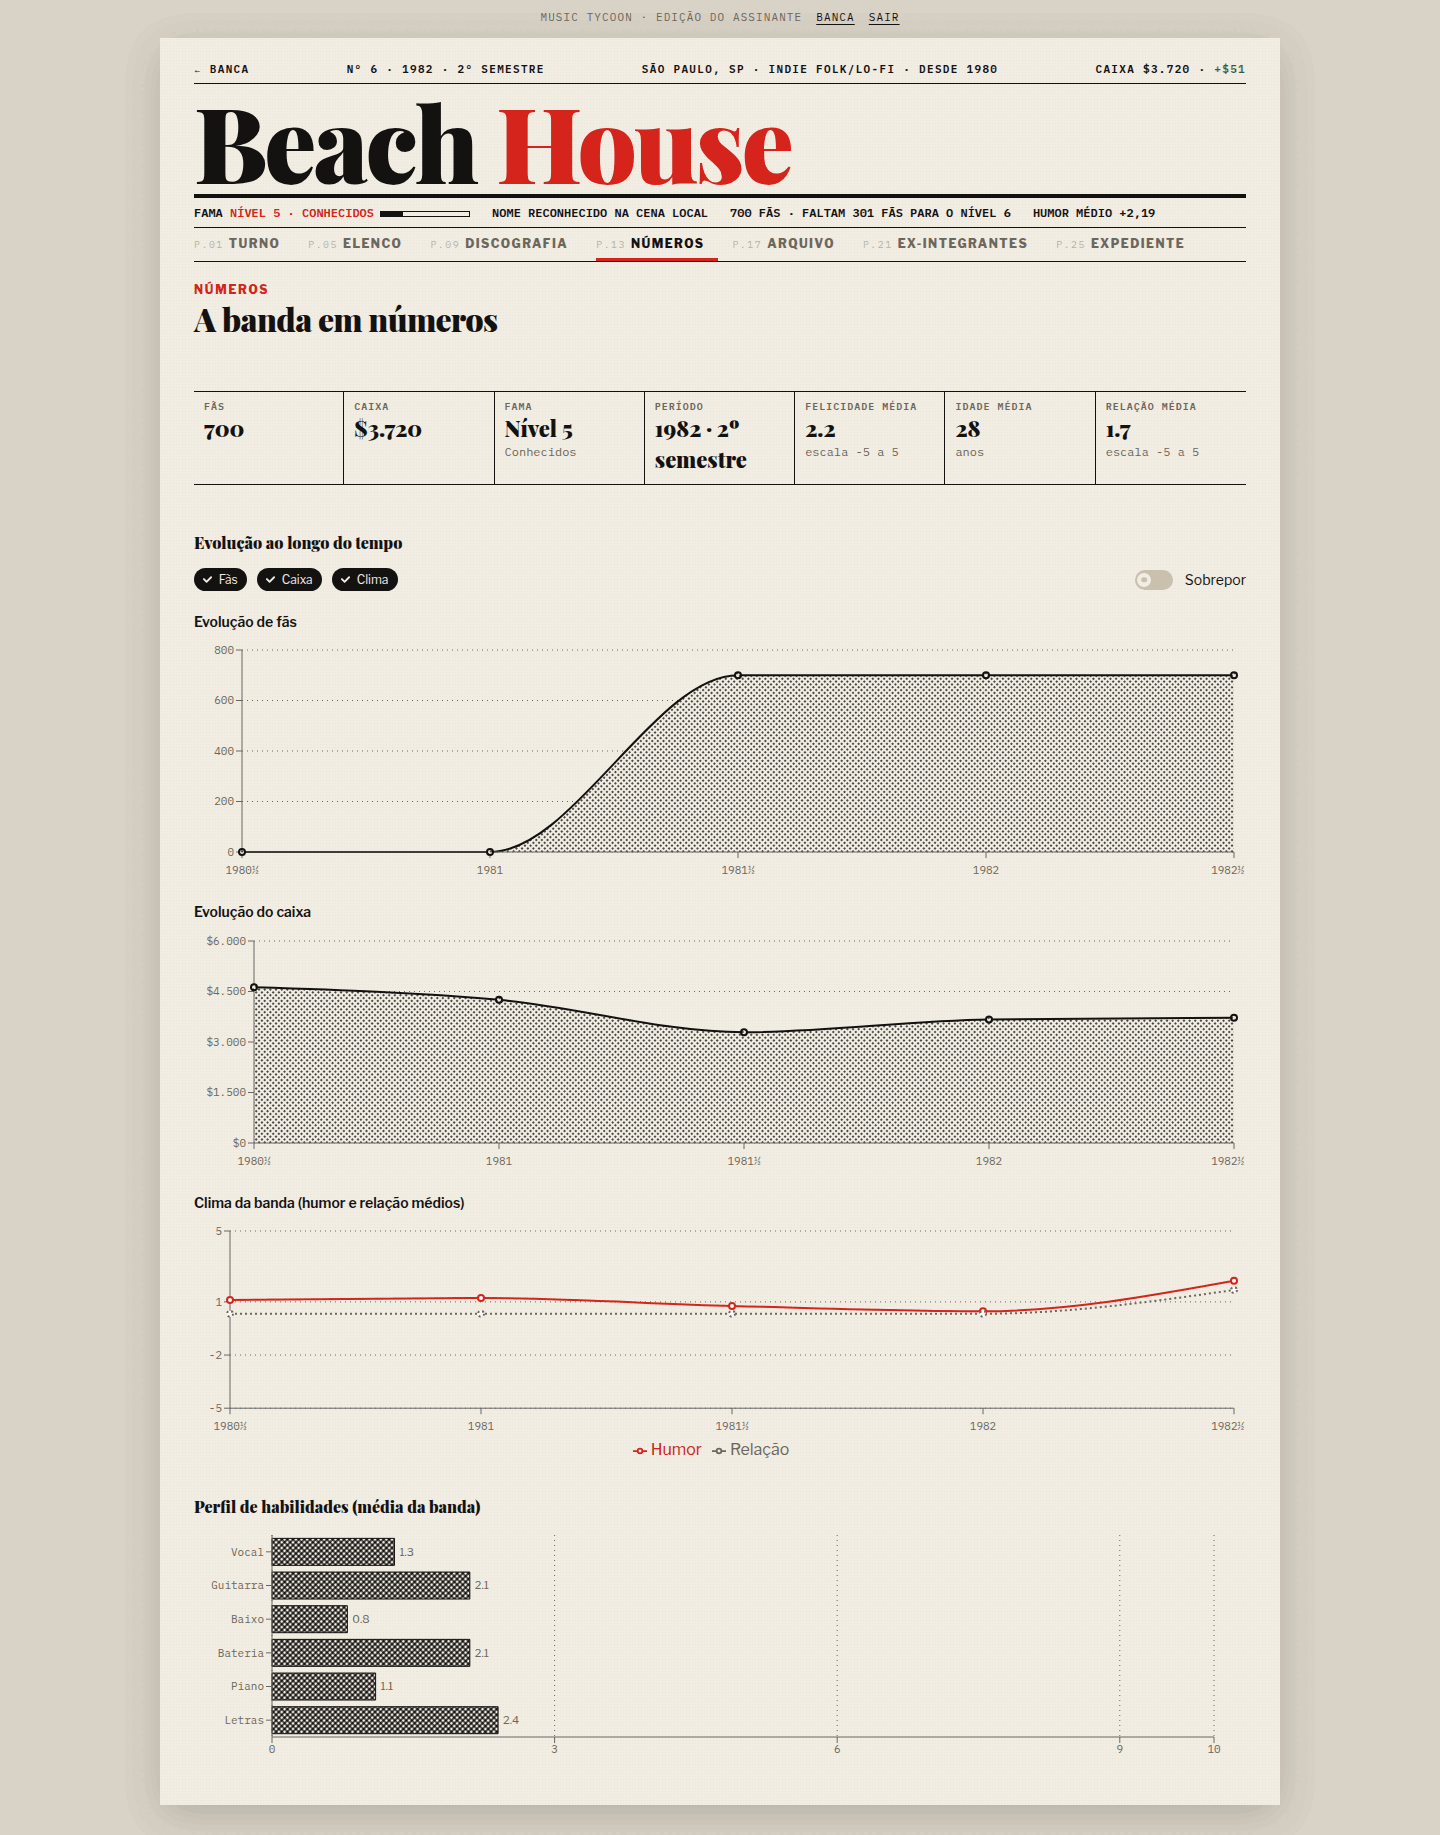
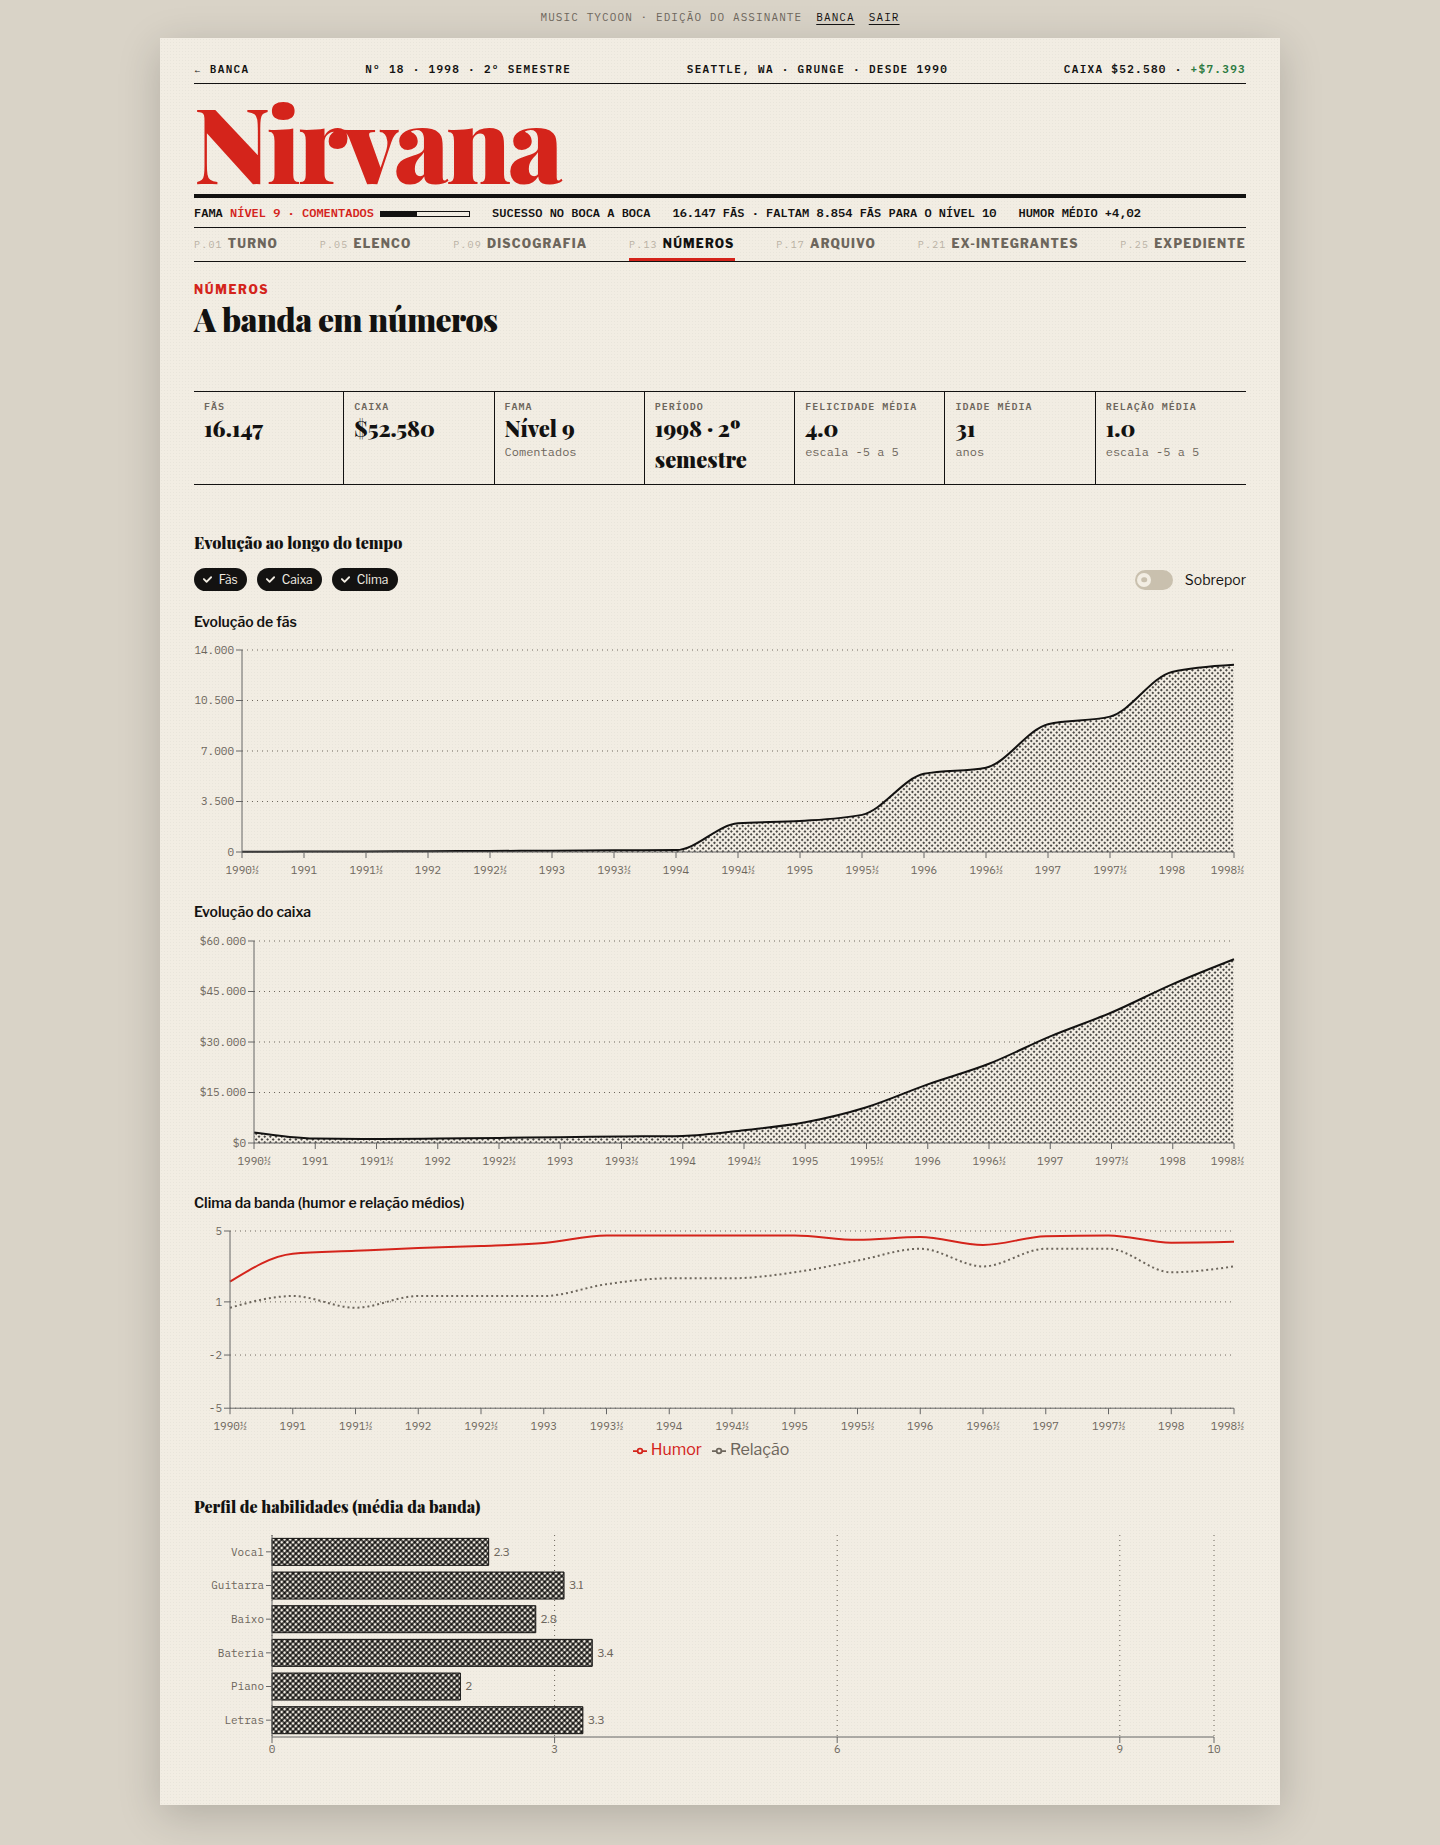
docs: prints do README com a Nirvana e a crítica da obra
Os prints da banca, nova banda, turno, entrevista, discografia e números
passam a mostrar a Nirvana (grunge, Seattle, 1990), jogada num usuário
separado. Entra um print novo do encarte da crítica.

diff --git a/README.md b/README.md
@@ -18,13 +18,13 @@ cada turno é uma edição e os retratos são desenhados em retícula.
 ### A banca
 A lista de bandas do jogador, cada uma com a foto da formação.
 
-![A banca com duas bandas e o cartão de nova banda](docs/screenshots/banca.png)
+![A banca com a Nirvana e o cartão de nova banda](docs/screenshots/banca.png)
 
 ### Nova banda
 Ficha da banda (nome, estilo, cidade e década), audições e revisão. "Sortear
 tudo" preenche a ficha de uma vez.
 
-![Primeiro passo da criação de banda, com a ficha sorteada](docs/screenshots/nova-banda.png)
+![Primeiro passo da criação de banda, com a ficha da Nirvana: grunge, Seattle, 1990](docs/screenshots/nova-banda.png)
 
 ### Turno
 O painel do semestre. No topo, a **Gazeta do Groove** traz as notícias do ano
@@ -43,7 +43,14 @@ salário, com ajuste e histórico.
 ### Discografia
 Cada lançamento com a nota da crítica e do público, a resenha e o que rendeu.
 
-![Discografia com um EP lançado](docs/screenshots/discografia.png)
+![Discografia com cinco EPs lançados](docs/screenshots/discografia.png)
+
+### A crítica
+Lançar uma obra abre o encarte da crítica: o disco gira e as notas saem uma de
+cada vez, primeiro a nota da obra e a faixa, depois a crítica especializada e o
+público, cada um com os seus comentários.
+
+![O encarte da crítica de um EP, com a nota, a faixa, os fãs ganhos e os comentários da crítica e do público](docs/screenshots/critica.png)
 
 ### Números
 Fãs, caixa, clima da banda e perfil de habilidades ao longo do tempo, em
